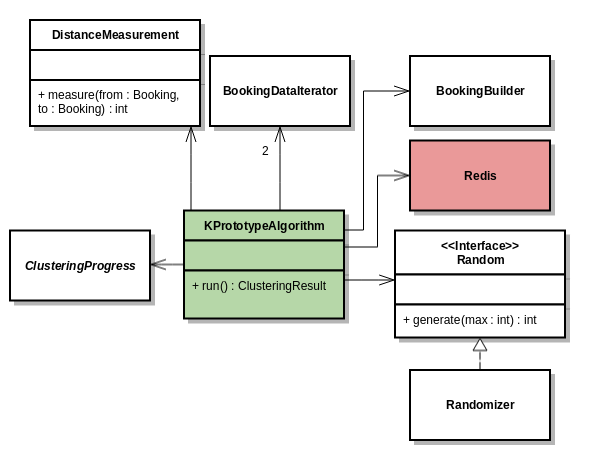
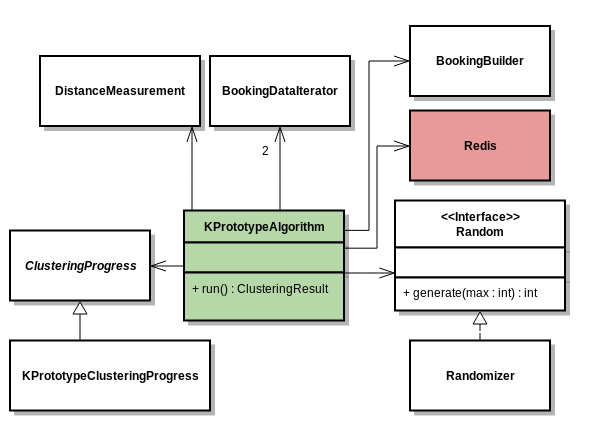
Klassenstruktur und externe Bibliotheken

diff --git a/doc/content/5-Umsetzung.tex b/doc/content/5-Umsetzung.tex
@@ -183,6 +183,7 @@ Im \cref{sec:recherche:datenvorbereitung} wurde beschrieben, wie die Daten vorbe
 \label{sec:proofofconcept:architektur}
 Hier wird die Architektur des Programmes erläutert. Grundlegen wurde die Applikations nach dem \gls{mvc}-\gls{pattern} aufgebaut. Dies und die strukturierung des Codes werden hier vorgestellt.
 
+
 \subsection{MVC}
 \label{sec:proofofconcept:architektur:mvc}
 Mit dem \gls{mvc}-\gls{pattern} wird das Programm in die drei Komponenten Datenmodel (Model), Präsentation (View) und Programmsteuerung (Controller) unterteilt. Ein Controller nimmt die Anfrage vom Browser entgegen und kreiert ein Datenmodel mit Hilfe einer Geschäftslogik. Diese Logik gibt ein Datenmodel zurück welches die Programmsteuerung an die Präsentation übergibt welche sie darstellt.
@@ -216,30 +217,144 @@ Die Struktur der Packages ist so ausgelegt, dass die Abhängigkeiten von oben na
 
 \subsection{Klassenstruktur}
 \label{sec:proofofconcept:klassenstruktur}
-\begin{figure}[H]
-	\centering
-	\includegraphics[width=1\textwidth]{images/diagram-class-Controller}
-	\caption{}
-	\label{fig:proofofconcept:klassenstruktur:1}
-\end{figure}
-\begin{sidewaysfigure}[H]
-	\centering
-	\includegraphics[width=1\textwidth]{images/diagram-class-AprioriAlgorithm}
-	\caption{}
-	\label{fig:proofofconcept:klassenstruktur:2}
-\end{sidewaysfigure}
-\begin{figure}[H]
-	\centering
-	\includegraphics[width=1\textwidth]{images/diagram-class-DBScanAlgorithm}
-	\caption{}
-	\label{fig:proofofconcept:klassenstruktur:3}
-\end{figure}
-\begin{figure}[H]
-	\centering
-	\includegraphics[width=1\textwidth]{images/diagram-class-KPrototypeAlgorithm}
-	\caption{}
-	\label{fig:proofofconcept:klassenstruktur:4}
-\end{figure}
+Um den Aufbau der Lösung zu erklären werden in diesem Abschnitt die Klassen sowie deren Abhängigkeiten gezeigt. Verwendet werden \gls{uml} Klassendiagramme für die Darstellung. Diese wurden jedoch in den \cref{app:klassendiagram} verschoben da sie wegen ihrer Grösse die Übersichtlichkeit erschweren.
+
+Einige Klassen sind grün eingefärbt und stellen den Ausgangspunkte dar, von welchen die Erklärungen beginnen. Rot hinterlegt sind jene Klassen die von einer externen Bibliothek bereitgestellt werden.
+
+\subsubsection{Models}
+Die Models sind Datencontainer mit möglichst wenig Logik. 
+
+\paragraph{Filter \& Felder} In \cref{fig:proofofconcept:klassenstruktur:5} werden die Filter und Felder gezeigt. Felder (Field) werden von den Algorithmen verwendet (z.B. Distanzmessung bei beim Clustering oder Häufigkeitszählung beim Apriori) sowie von den Filtern. Letztere werden benutzt um die Datenbasis einzuschränken. Es gibt verschiedene Arten von Feldern, welche direkt im Klassendiagram abgebildet sind. Dies wären zum Beispiel Fliesskommazahlen (FloatField), Ganzzahlen (IntegerField), Texten (String), etc. Welche Felder in der Datenbasis auf welchen Feldtypen im Code zugeordnet werden ist in der Konfiguration des Programmes definiert.\todo{cref konfiguration}
+
+\paragraph{Resultat des Apriori-Algorithmus} In \cref{fig:proofofconcept:klassenstruktur:6} werden die Histogramme abgebildet, welche üblicherweise zur Darstellung von Häufigkeitsverteilung verwendet wird. In dieser Arbeit werden sie für die Repräsentation des Resultates eines Apriori Algorithmuses benutzt. 
+Ein "`Histograms"' besitzt ein oder mehrere "`Histogram"' welches wiederum ein oder mehrere "`HistogramBins"' enthält. "`Histograms"' beinhaltet sämtliche Attributmengen und stehen somit für das gesamte Resultat der Anaylse. Ein "`Histogram"' repräsentiert eine Iteration des Apriori Algorithmus (z.B. alle häufigen 2-Attributmengen). Schlussendlich enthält ein "`HistogramBin"' eine Attributkombination mit der Häufigkeit, wie oft sie in der Datenmenge vorkommt. Um dies an einem Beispiel zu zeigen wird eine "`Histograms"' hier gezeigt:
+\begin{itemize}
+\item \textbf{\#1 Histograms}:
+	\begin{itemize}
+		\item \textbf{\#1 Histogram}:
+			\begin{itemize}
+				\item \textbf{\#1 HistogramBin}: ((Distanz zum See = 200), 200/350 Buchungen)
+				\item \textbf{\#2 HistogramBin}: ((Land = Schweiz), 150/350 Buchungen)
+				\item \textbf{\#3 HistogramBin}: ((Jazzuci vorhanden = Ja), 75/350 Buchungen)
+			\end{itemize}  
+		\item \#2 Histogram:
+			\begin{itemize}
+				\item \textbf{\#1 HistogramBin}: ((Distanz zum See = 200, Land = Schweiz), 130/350 Buchungen)
+				\item \textbf{\#2 HistogramBin}: ((Land = Schweiz, Jazzuci vorhanden = Ja), 70/350 Buchungen)
+			\end{itemize}  
+		\item \#3 Histogram:
+			\begin{itemize}
+				\item \textbf{\#1 HistogramBin}: ((Distanz zum See = 200, Land = Schweiz, Jazzuci vorhanden = Ja), 50/350 Buchungen)
+			\end{itemize}  
+	\end{itemize}  
+\end{itemize}  
+
+
+\paragraph{Resultat der Clustering-Algorithmen} Das Model für die Resultate der Clustering Algorithmen wird in \cref{fig:proofofconcept:klassenstruktur:7} gezeigt. Gemeinsamkeiten der beiden Algorithmen sind in den Interfaces "`ClusteringResult"' und "`Cluster"' zu finden. Deren Unterschiede sind jeweils in den entsprechenden Implementationen definiert. Die einzelnen Klassen werden nachfolgend beschrieben.
+\begin{itemize}
+	\item ClusterinResult: Definiert das ein Resultat vom DBScan und vom KProtoype ein oder mehrere Cluster besitzen muss.
+	\begin{itemize}  
+		\item DBScanResult: Das Resultat einer DBScan Analyse. Zusätzlich zu den Clustern selber besitzt die Klasse Noise-Punkte, welche keinem Cluster zugewiesen werden können (siehe \cref{sec:recherche:algorithmen:dbscan} \nameref{sec:recherche:algorithmen:dbscan}).
+		\item KPrototypeResult: Das Resultat einer KPrototype Analyse. Neben den Clustern beinhaltet die Klasse die Gesamtkosten des Clusterings.
+	\end{itemize}  
+	\item Cluster: Ein Cluster besteht bei beiden Algorithmen aus einem oder mehreren Punkten.
+		\begin{itemize}  
+			\item DBScanCluster \& ClusterPoint: Der "`DBScanCluster"' besitzt nur die einzelnen Datenpunkte "`ClusterPoint"'. Diese beinhalten die ID der Buchung welche sie darstellen.
+			\item KPrototypeCluster \& DistanceClusterPoint: Die Cluster beim KPrototypeCluster besitzen ein Zentrum, welches auf der Klasse "`KPrototypeCluster"' abgelegt ist. Jeder Datenpunkt in diesem Cluster ist vom Typ "`DistanceClusterPoint"' welcher neben der ID der Buchung welche er repräsentiert noch die Distanz bis zum Zentrum des Clusters beinhalten.
+		\end{itemize}  
+\end{itemize}  
+
+%Grundelement ist das Interface "`ClusteringResult"', welches von "`DBScanResult"' und "`KPrototypeResult"' implementiert werden. Beide Klassen besitzen mehrere "`Cluster"'. Das "`DBScanResult"' besitzt jedoch noch Noise-Punkte und das "`KPrototypeResult"' der Gesamtfehler eines Clusters zu dessen Zentrum. 
+
+
+\subsubsection{Controllers}
+Die erste Abbildung \cref{fig:proofofconcept:klassenstruktur:1} zeigt die Controllers. 
+\begin{itemize}
+	 \item Controller: Das "`Controller"' Interface gibt eine "`run"' Methode vor welche den Inhalt zurück liefern welcher an den Browser zurückgesendet wird. Verwendet werden die Klassen für die Behandlung der einzelnen Internetseiten die dem Benutzer angezeigt werden können. Es gibt 4 Klassen welches dieses Interface implementieren.
+	 \begin{itemize}
+		\item ExplorerController: Ist für die Darstellung der Seite "`Einsehen der Stammdaten"' verantwortlich, welche in \cref{fig:konzept:mockups:stammdaten} abgebildet ist.
+			\begin{itemize}
+				\item BookingsProvider: Um die Buchungen zu laden wird der "`BookingsProvider"' verwendet. Dieser hat eine "`getSubset"' Methode mit welcher man sich die aktuelle Seite zurückgeben lassen kann. Er übernimmt nur die Aufgabe für die Unterteilung der Buchungen auf Seiten. Das Laden der Buchungen wird vom "`BookingDataIterator"' erledigt.
+				\item BookingDataIterator: Wird in \cref{fig:proofofconcept:klassenstruktur:2} erläutert.
+				\item UrlGenerator: Der URLGenerator wird benötigt um die Links zwischen den Seiten (Buchungslisten) zu erzeugen.
+			\end{itemize}
+		\item AttributanalysisController \& AttributanalysisWithGroupingController: Diese beiden Controller sind für die Darstellung von \cref{fig:konzept:mockups:apriori} und \cref{fig:konzept:mockups:clustering} verantwortlich und stossen die Services für die Analysen an (siehe \cref{sec:proofofconcept:architektur:services} \nameref{sec:proofofconcept:architektur:services}). 
+		\item SettingsController: Zeigt ein Formular mit welchem die Einstellungen des Programmes angepasst werden können.
+		\item Twig\_Environment: Dies ist die View (siehe \cref{sec:proofofconcept:architektur:mvc} \nameref{sec:proofofconcept:architektur:mvc}) welche das \gls{html} generiert, welches an den Browser gesendet wird für die Darstellung. Verwendet wird diese Klasse von allen Controllern.
+		\item FiltersProvider: Liefert die Filter welche für den Aufbau des Formulares für die Einschränkung des Datenbestandes benötigt wird.
+			\begin{itemize}
+				\item DataTypeClusterer: Wird in \cref{fig:proofofconcept:klassenstruktur:2} erläutert.
+			\end{itemize}
+	 \end{itemize}
+\end{itemize}
+
+\subsubsection{Algorithmen}
+\cref{fig:proofofconcept:klassenstruktur:2} zeigt den Service für den Apriori Algorithmus.
+\begin{itemize}
+	\item AprioriAlgorithm: Führt den Apriori Algorithmus aus. Abhängig was der Klasse übergeben wird analysiert sie die gesamten Datenbasis, eine durch Filter eingeschränkten Untermenge, oder das Resultat eines Clusterings. Gesteuert wird dies über den "`DataIterator"' und den "`AprioriProgress"' welche nachfolgend beschrieben werden.
+	\item AprioriProgress: Speichert das Resultat der Apriori Analyse. 
+	\begin{itemize}
+		\item AprioriProgressToFile: Speichert das Resultat der Apriori Analyse in ein File ab. Diese Klasse wird verwendet wenn der Algorithmus auf der gesamten Datenbasis (oder auf einer durch Filter eingeschränkten Untermenge) durchgeführt wird. 
+		\item AprioriProgressForCluster: Wenn der Apriori Algorithmus das Resultat eines Clusterings analysiert kann diese Klasse verwendet werden. Sie speichert das gesamte Ergebnis ab. Sprich es müssen alle Cluster sowie deren jeweiligen Resultate des Apriori-Algorithmus übergeben werden.
+	\end{itemize}
+	\item BookingDataIterator: Diese Klasse implementiert das Iterator-\gls{pattern}. Sie ermöglicht es Buchung für Buchung eine Datenquelle zu durchlaufen. Intern wird ein "`DataIterator"' verwendet um auf die Quelle der Daten zuzugreifen. Dieser liefert ein unstrukturiertes Array zurück, welches der "`BookingDataIterator"' in eine Buchung umwandelt.
+		\begin{itemize}
+			\item Iterator \& DataIterator: Von PHP wird für die Implementierung des Iterator-\gls{pattern} ein Iterator Interface zur Verfügung gestellt. Das "`DataIterator"' Interface erweitert jenes von PHP um eine Methode "`skip"', mit welcher eine Anzahl an Zeilen in der Datenquelle übersprungen werden kann (wird vom "`ExploreController"' verwendet), sowie eine Funktion "`count"', welche die gesamte Anzahl an Resultaten zurück gibt. Es gibt 4 Iteratoren, welche das "`DataIterator"' Interface implementieren.\todo{cref cache}
+				\begin{itemize}
+					\item LoadRedisDataIterator \& Redis: Der "`LoadRedisDataIterator"' lädt die Daten aus einer Redis InMemory Datenbank. Verwendet wird dazu die "`Redis"' Klasse aus der \gls{pecl}.\todo{cref redis}
+					\item LoadIncrementalCSVDataIterator: Lädt die Daten aus einer \gls{csv}-Datei. Jede Zeile wird einzeln aus dem File gelesen.\todo{cref performance}
+					\item LoadAllCSVDataIterator: Lädt die Daten aus einer \gls{csv}-Datei. Zu Beginn werden alle Zeilen ins Memory des Programmes geladen, aus welchem Zeile für Zeile zurückgegeben wird.\todo{cref performance}
+					\item LoadClusterDataIterator: Der Klasse muss ein Cluster übergeben werden, über welchen iteriert wird. Verwendet wird der "`LoadClusterDataIterator"' für die Apriori-Analyse nachdem ein Clustering durchgeführt wurde.
+				\end{itemize}
+			\item DataTypeClusterer: Er übernimmt ein Array an Feldern mit untypisierten Daten aus einer Datenquelle oder den Filtern, typisiert diese und gruppiert sie. Beispiel an Daten die an den "`DataTypeClusterer"' übergeben werden:
+			\begin{lstlisting}[language=php]
+var $\textdollar$rawData = array(
+	'distanceToPublicTransport' => 400
+	'distanceToSea' => 200
+	'country' => 'Switzerland'
+)
+			\end{lstlisting}
+			Dabei handelt es sich um ein Array mit 3 Feldern. Der DataTypeClusterer wandelt die 2 Distanzfelder in Objekte vom Typen "`DistanceField"' um und gruppiert sie zusammen unter "`distanceFields"'. Das Land (country) wird in ein "`StringField"' Ojekt umgewandelt und unter "`stringFields"' gruppiert. Das Resultat sieht das etwas vereinfacht so aus:
+			\begin{lstlisting}[language=php]
+object(DataTypeCluster) {
+	"distanceFields": array(
+		object(DistanceField) {
+			"name" => string("distanceToPublicTransport")
+			"value" => int(400)
+		},
+		object(DistanceField) {
+			"name" => string("distanceToPublicTransport")
+			"value" => int(400)
+		},
+	),
+	"stringFields": array(
+		object(StringField) {
+			"name" => string("country")
+			"value" => string("Switzerland")
+		}
+	)
+}
+			\end{lstlisting}
+			\item BookingBuilder: Erstellt ein Objekt "`Booking"' mit hilfe eines "`DataTypeClusterer"' aus einem unstrukturierem Array.
+		\end{itemize}
+\end{itemize}
+
+\cref{fig:proofofconcept:klassenstruktur:3} zeigt den Service für den DBScan Algorithmus. Die Klasse "`BookingDataIterator"' wurde bereits im \cref{fig:proofofconcept:klassenstruktur:2} erläutert und wurde deshalb nicht mehr detailliert abgebildet.
+\begin{itemize}
+	\item DBScanAlgorithm: Führt den DBScan Algorithmus aus. 
+	\item ClusteringProgress \& DBScanClusteringProgress: Eine abstrakte Klasse welche das Resultat eines Clusterings in ein File abspeichert. Kann für den DBScan und den KPrototype verwendet werden. Die abgeleitete Klasse "`DBScanClusteringProgress"' wird lediglich benötigt um die richtige View zu laden und die korrekte Konfiguration bereitzustellen.
+	\begin{itemize}
+		\item Runtime: Verfolgt die Laufzeit des Algorithmus seit der Service gestartet wurde. 
+	\end{itemize}
+	\item DistanceMeasurement: Implementation der Distanzmessung aus der \cref{eq:recherche:clusteranalysis:2}.
+\end{itemize}
+
+\cref{fig:proofofconcept:klassenstruktur:4} zeigt den Service für den KPrototype Algorithmus. Die Klassen "`BookingDataIterator"' und "`DistanceMeasurement"' wurden bereits dokumentiert und werden hier nicht mehr erläutert.
+\begin{itemize}
+	\item KPrototypeAlgorithm: Führt den KPrototype Algorithmus aus. 
+	\item ClusteringProgress \& KPrototypeClusteringProgress: Der ClusteringProgress ist der selbe wie in \cref{fig:proofofconcept:klassenstruktur:3}. Die abgeleitete Klasse "`KPrototypeClusteringProgress"' liefert, gleich wie "`DBScanClusteringProgress"' die View sowie die Konfiguration. 
+	\item Random, Randomizer, Redis \& BookingBuilder: Der KPrototype Algorithmus wählt die initialen Clusterzentren zufällig. Dafür werden diese 4 Klassen benötigt. Random und Randomizer erlauben es eine Zufällige Buchung auszuwählen. Die Redis InMemory Datenbank liefert die Rohdaten der Buchung und der "`BookingBuilder"' wandelt sie in eine Klasse "`Booking"' um.
+\end{itemize}
 
 \section{Kommunikationsablauf}
 \label{sec:proofofconcept:kommunikationsablauf}
@@ -332,7 +447,10 @@ Abgebildet ist der Ablauf in \cref{fig:proofofconcept:architektur:hintergrundpro
 
 Auf ein Sequenzdiagramm für den DBSCAN-Algorithmus wird hier verzichtet, denn die Visualisierung des DBSCAN-Ablaufs ist identisch wie jener vom KPrototype. Lediglich die Namen der aufgerufenen Klassen müssten angepasst werden.
 
-\section{Dependency Injection mit PHP-DI}
+\section{Externe Bibliotheken}
+Dieser Abschnitt erläutert welche externe Bibliotheken verwendet wurden.
+
+\subsection{Dependency Injection mit PHP-DI}
 \label{sec:proofofconcept:dependency-injection}
 % und um die Entkoppelung der einzelnen Module zu ermöglichen ein Dependency Injection Framework verwendet. Diese und weitere Punkte werden nachfolgend beschrieben.
 Bei der Dependency Injection handelt es sich um ein \gls{pattern}
@@ -403,5 +521,43 @@ Zuerst wird ein "`ContainerBuilder"' erstellt. Auf diesem wird definiert, dass f
 
 Als erfreulicher Nebeneffekt erleichtert dies die Entwicklung von UnitTests massiv (\todo{cref}).
 
+\subsection{Frontend mit Twitter Bootstrap}
+Für das Design des Webseite wurde Twitter Bootstrap (url{http://getbootstrap.com/})verwendet. Es bietet viele Komponenten welche man für die Entwicklung einer Webseite verwendet kann. Dies erleichtert die Umsetzung, da man sich keine Gedanken darüber machen muss wie die Seite aufgebaut oder gestaltet wird. 
+
+Eingesetzt wurde folgende Komponenten:
+\begin{itemize}
+	\item Navigation: Die Navigation welche auf jeder Seite zuoberst dargestellt wird (\url{http://getbootstrap.com/components/#navbar}).
+	\item Formulare: Die Formulare für die Einschränkung des Datenbestandes (\url{http://getbootstrap.com/css/#forms}).
+	\item Tabellen: Für die Auflistung der Buchungen für das einsehen der Stammdaten sowie den Resultaten der Apriori Analyse. (\url{http://getbootstrap.com/css/#tables}).
+	\item Pagination: Die Paginierung beim einsehen der Stammdaten (\url{http://getbootstrap.com/components/#pagination})
+	\item Glyphicons: Die Icons für die Preise und das Häkchen der binären Attribute (\url{http://getbootstrap.com/components/#glyphicons}).
+\end{itemize}
+
+\subsection{JavaScript Framework mit JQuery}
+Für die JavaScript Entwicklung wurde JQuery eingesetzt (\url{https://jquery.com/}). Verwendet wurde die Bibliothek für die Abfrage des Zwischenstandes einer Analyse vom Server. Für die Textvervollständigung bei der Eingabe der Destination wurde zusätzlich noch die JQuery Erweiterung "`Autocomplete"' eingesetzt (\url{https://jqueryui.com/autocomplete/}).
+
+\subsection{Less mit Grunt}
+Das Styling einer Webseite wird üblicherweise mit \gls{css} gemacht. Es gibt jedoch Erweiterungen dazu wie LESS oder SASS. In diesem Projekt wurde LESS eingesetzt (\url{http://lesscss.org/}). Dieses muss jedoch in \gls{css} umgewandelt werden wozu Grunt verwendet wurde. (\url{https://gruntjs.com/}).
+
+\subsection{Templating mit Twig}
+\gls{html} Templates werden benutzt um die Logik des Programmes von der Darstellung zu trennen (siehe \cref{sec:proofofconcept:architektur:mvc} \nameref{sec:proofofconcept:architektur:mvc}). Dazu wurde die PHP Template Bibliothek Twig eingesetzt (\url{https://twig.sensiolabs.org/}).
+
+\subsection{UnitTests mit PHPUnit}
+UnitTests wurden mit PHPUnit umgesetzt (\url{https://phpunit.de/}).
+
+\subsection{Package Managing mit Composer}
+Ein Package Manager verwaltet die Abhängigkeiten von externen Bibliotheken welche in einem Projekt benutzt werden. Bei der Implementation des Programmes wurde ein solcher Package Manager verwendet um Bibliotheken wie Twig, PHPUnit und PHP-DI zu verwalten. Eingesetzt wurde Composer (\url{https://getcomposer.org/}).
+
+\subsection{Versionsverwaltung mit Git und GitHub}
+Eine Versionsverwaltung wird verwendet um Änderungen an Dateien aufzuzeichnen. Eingesetzt wurde das verteilte System Git (\url{https://git-scm.com/}) für die Kontrolle des Quellcodes des Programmes, der Hilfsprogramme für die Datenvorbereitung sowie dieser Dokumentation. Es empfiehlt sich zusätzlich einen zentralen Server einzusetzen, da der gesamte Code sonst nur auf dem Rechner des Entwicklers gespeichert ist. Dazu wurde GitHub benutzt (\url{https://github.com/}). Dies erlaubt es über Git eine Kopie auf dem Server von GitHub anzulegen. Das sichert einem gegen Datenverlust ab und erlaubt es auf verschieden Computern an dem selben Projekt zu arbeiten.
+
+\subsection{InMemory Datenbank mit Redis}
+Normalerweise speichert eine Datenbank die Daten auf die Festplatte ab. Eine alternative Herangehensweise ist es, die Informationen im Kurzzeitspeicher zu behalten. Wenn dies eine Datenbank macht spricht man von InMemory. Eine solche wurde in der Arbeit mit Redis verwendet (\url{https://redis.io/})
+
+
 \section{Caching}
 \label{sec:proofofconcept:caching}
+
+\section{UnitTests}
+
+\section{Redis}

diff --git a/doc/content/7-Appendix.tex b/doc/content/7-Appendix.tex
@@ -292,3 +292,48 @@ Es gibt dabei folgende Datentypen:
 
 
 
+\chapter{Klassendiagramme}
+\label{app:klassendiagram}
+Nachfolgend werden die Klassendiagramme präsentiert. Die Erklärung dazu ist im \cref{sec:proofofconcept:klassenstruktur} zu finden.
+\begin{figure}[H]
+	\centering
+	\includegraphics[width=0.5\textwidth]{images/diagram-class-filters}
+	\caption{Klassendiagram der Filter und Felder Datenmodellen}
+	\label{fig:proofofconcept:klassenstruktur:5}
+\end{figure}
+\begin{figure}[H]
+	\centering
+	\includegraphics[width=0.6\textwidth]{images/diagram-class-Histograms}
+	\caption{Klassendiagram der Histogram-Modellen}
+	\label{fig:proofofconcept:klassenstruktur:6}
+\end{figure}
+\begin{sidewaysfigure}[H]
+	\centering
+	\includegraphics[width=1\textwidth]{images/diagram-class-clusters}
+	\caption{Klassendiagram der Clusterresultaten}
+	\label{fig:proofofconcept:klassenstruktur:7}
+\end{sidewaysfigure}
+\begin{figure}[H]
+	\centering
+	\includegraphics[width=1\textwidth]{images/diagram-class-Controller}
+	\caption{Klassendiagram der Controller}
+	\label{fig:proofofconcept:klassenstruktur:1}
+\end{figure}
+\begin{sidewaysfigure}[H]
+	\centering
+	\includegraphics[width=1\textwidth]{images/diagram-class-AprioriAlgorithm}
+	\caption{Klassendiagram des Apriori Alogorithmus}
+	\label{fig:proofofconcept:klassenstruktur:2}
+\end{sidewaysfigure}
+\begin{figure}[H]
+	\centering
+	\includegraphics[width=1\textwidth]{images/diagram-class-DBScanAlgorithm}
+	\caption{Klassendiagram des DBScan Alogorithmus}
+	\label{fig:proofofconcept:klassenstruktur:3}
+\end{figure}
+\begin{figure}[H]
+	\centering
+	\includegraphics[width=1\textwidth]{images/diagram-class-KPrototypeAlgorithm}
+	\caption{Klassendiagram des KPrototype Alogorithmus}
+	\label{fig:proofofconcept:klassenstruktur:4}
+\end{figure}

diff --git a/doc/content/Z-GlossaryEntries.tex b/doc/content/Z-GlossaryEntries.tex
@@ -15,6 +15,8 @@
 	\newacronym{html}{HTML}{HyperText Markup Language}
 	\newacronym{mvc}{MVC}{Model–view–controller}
 	\newacronym{uml}{UML}{Unified Modeling Language}
+	\newacronym{css}{CSS}{Cascading Style Sheets}
+	\newacronym{php}{PHP}{PHP: Hypertext Preprocessor}
 }
 
 % use it with \gls{glos:DVD}
@@ -42,8 +44,11 @@
 \newglossaryentry{pattern}{name=Entwurfsmuster,
 description={Entwurfsmuster (englisch design patterns) sind bewährte Lösungsschablonen für wiederkehrende Entwurfsprobleme sowohl in der Architektur als auch in der Softwarearchitektur und -entwicklung. Sie stellen damit eine wiederverwendbare Vorlage zur Problemlösung dar, die in einem bestimmten Zusammenhang einsetzbar ist. Quelle: \url{https://de.wikipedia.org/wiki/Entwurfsmuster}}
 }
+\newglossaryentry{pecl}{name=PHP Extension Community Library,
+	description={Die PHP Extension Community Library (PECL) ist eine Ansammlung von frei verfügbaren Bibliotheken welche in einem PHP Projekt verwendet werden können. Weitere Informationen unter \url{http://pecl.php.net}}
+}
 \newglossaryentry{gls:gnugpl}{name=GNU General Public License,
-	description={GNU GPL ist eine Software Lizenz, welche es erlaubt, den Code auszuführen, zu studieren, zu teilen sowie zu modifizieren. Weitere Informationen unter \url{gnu.org/licenses/gpl.html}}
+	description={GNU GPL ist eine Software Lizenz, welche es erlaubt, den Code auszuführen, zu studieren, zu teilen sowie zu modifizieren. Weitere Informationen unter \url{http://gnu.org/licenses/gpl.html}}
 }
 \newglossaryentry{acr:gnugpl}{
 	type=\acronymtype, 

diff --git a/doc/content/4-Konzept.tex b/doc/content/4-Konzept.tex
@@ -411,7 +411,7 @@ Möchte der Benutzer wissen, welche Attribute in der (vorselektierten) Datenmeng
 	\RawFloats
 	\centering
 	\includegraphics[width=1\textwidth]{images/wireframe-histogram}
-	\caption{Mockup für das einsehen der Stammdaten (FA4 \& FA5)}
+	\caption{Auffinden von Attributen}
 	\label{fig:konzept:ablauf:analyse:1}
 \end{figure}
 
@@ -446,7 +446,7 @@ Der dritte Reiter führt zur Analyse mit den Clustering Algorithmen k-prototypes
 	\centering
 	\includegraphics[width=1\textwidth]{images/wireframe-clustering}
 	\caption{Mockup für die Analyse mit k-prototpyes und DBSCAN (FA1, FA2 \& FA3)}
-	\label{fig:konzept:mockups:apriori}
+	\label{fig:konzept:mockups:clustering}
 \end{figure}
 
 \section{Testfälle}

diff --git a/doc/preamble/packages.tex b/doc/preamble/packages.tex
@@ -1173,9 +1173,10 @@
 	do, is, sizeof, while,
 	double, lock, stackalloc,
 	else, long, static,
-	enum, namespace, string, function},
+	enum, namespace, string, function, var, object, array},
 	keywordstyle=\color{cyan},
 	identifierstyle=\color{red},
+	stringstyle=\color{violet},
 }
 
 
